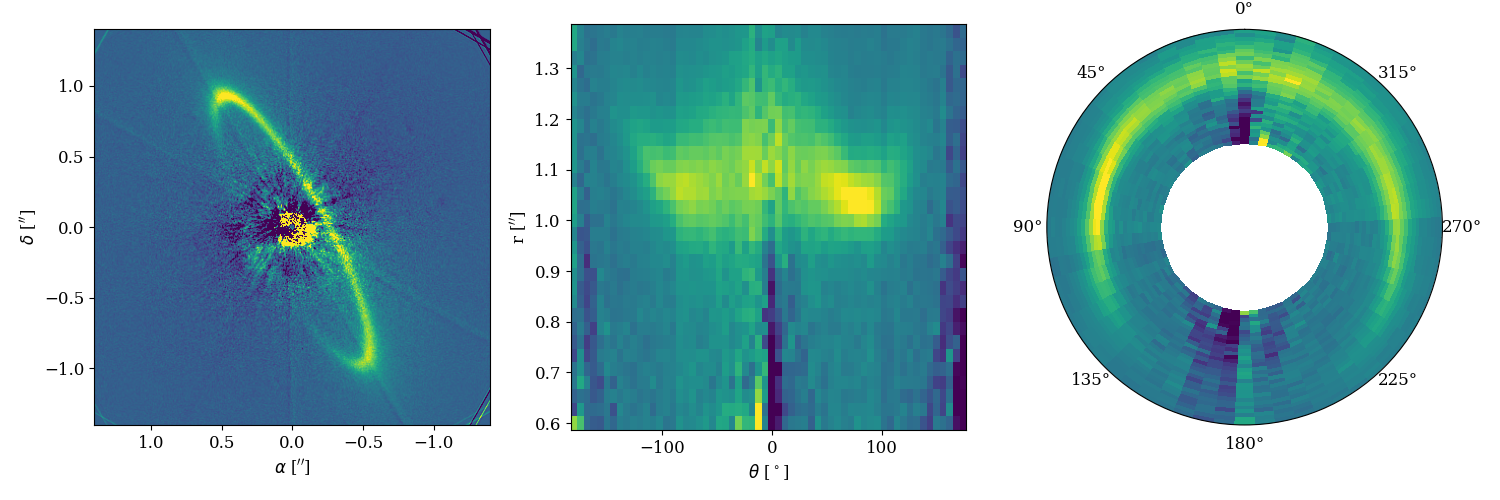
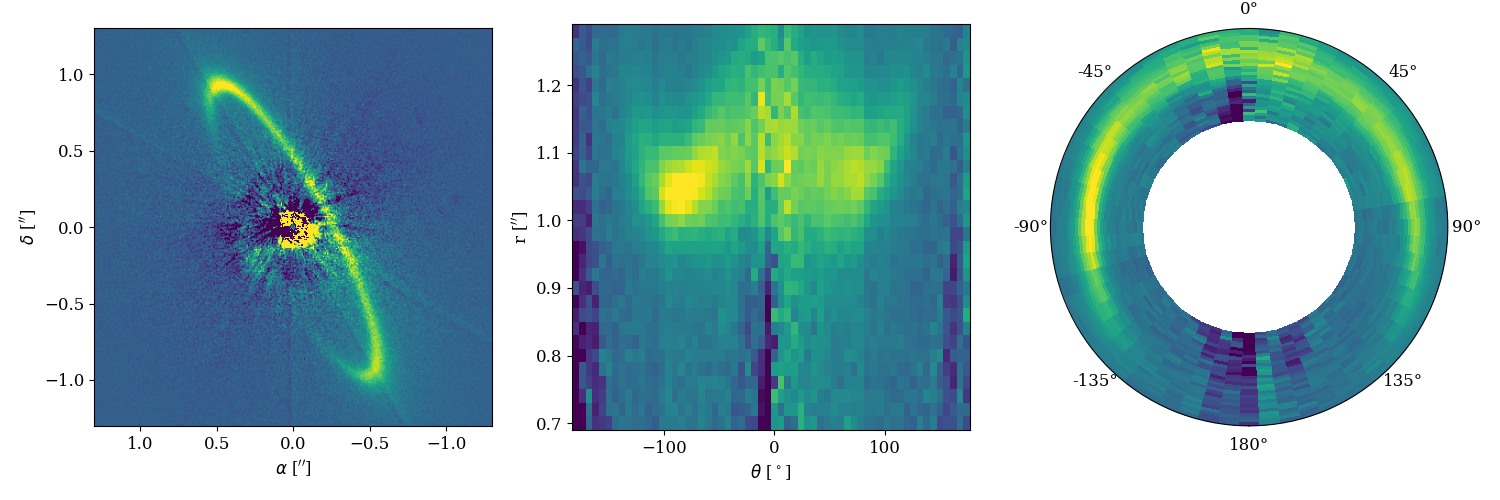
Better plotting

diff --git a/deproj.py b/deproj.py
@@ -52,6 +52,7 @@ class Deproj():
         self._ym = ((np.sin(self._pa) * self._Xin - np.cos(self._pa) * self._Yin)) / np.cos(self._incl)
         self._distance = np.sqrt(self._xm**2. + self._ym**2.)
         self._azimuth = (np.arctan2(self._ym,self._xm) + np.pi/2.) % (2. * np.pi) - np.pi
+        self._azimuth *= -1
         # self._azimuth = np.arctan2(self._ym, self._xm)
 
         rad = np.linspace(self._amin, self._amax, num = self._nr+1)
@@ -90,7 +91,10 @@ class Deproj():
             ax3 = fig.add_subplot(133, polar=True)
             ax3.grid(False)
             ax3.set_theta_zero_location('N')
+            ax3.set_theta_direction(-1)
             ax3.pcolormesh(theta[:-1], rad[:-1], density, vmin = dmin, vmax = dmax)
+            ax3.set_xticks(np.linspace(np.pi, -np.pi, 8, endpoint=False))
+            ax3.set_thetalim(-np.pi, np.pi)
             ax3.set_yticklabels([])
             plt.tight_layout()
             plt.show()
@@ -109,33 +113,12 @@ class Deproj():
         cb1 = plt.imshow(self._azimuth, origin = 'lower', extent = [self._xlim, -self._xlim, -self._xlim, self._xlim])
         # plt.contour(self._azimuth, origin = 'lower', extent = [self._xlim, -self._xlim, -self._xlim, self._xlim], levels = self._nt, colors = 'w')
         # cb1 = plt.imshow(self._distance, origin = 'lower', extent = [self._xlim, -self._xlim, -self._xlim, self._xlim])
-        for i in range(len(r)):
-            xn, yn, theta = self._get_xy(r[i], np.linspace(-np.pi, np.pi, num = self._nt, endpoint = True))
-            # ax1.plot(xn, yn, marker = 'o', mec = 'w', mfc = 'w', ms = 4, ls = ' ')
-            cb2 = ax1.scatter(xn, yn, c = theta, s = 6)
         # ax1.set_xlabel()
         # ax1.set_ylabel()
         divider = make_axes_locatable(ax1)
         cax = divider.append_axes("right", size="5%", pad=0.05)
         plt.colorbar(cb1, cax=cax)
         plt.show()
-
-    def _get_xy(self, a, nu):
-        """
-        All six orbital parameters
-        """
-        r = a * (1.0 - self._e**2.) / (1.0 + self._e * np.cos(nu))
-        x = r * np.cos(nu)
-        y = r * np.sin(nu)
-
-        # Now, we need to apply some projection and rotation
-        yn = x*(np.cos(self._pa)*np.cos(self._omega) - np.sin(self._omega)*np.cos(self._incl)*np.sin(self._pa)) -\
-             y*(np.sin(self._omega)*np.cos(self._pa) +np.cos(self._omega)*np.cos(self._incl)*np.sin(self._pa))
-        xn = x*(np.sin(self._pa)*np.cos(self._omega) + np.sin(self._omega)*np.cos(self._incl)*np.cos(self._pa)) +\
-             y*(np.cos(self._omega)*np.cos(self._incl)*np.cos(self._pa) - np.sin(self._omega)*np.sin(self._pa))
-        # The minus in front of xn is to flip the x axis and put the East on the left
-        # The minus in front of nu is to have positive angles on the front side of the disk
-        return -xn, yn, -nu
 
     def _read_fits(self, qfile):
         """
@@ -242,7 +225,8 @@ if __name__ == '__main__':
     # test.go(amin = 0.15, amax = 0.8, incl = 82.00, pa = -60.61)
 
     test = Deproj('data_example/HR4796_Qphi_400.fits', nr = 30, nt = 60, pixscale = 0.0072)
-    test.go(amin = 0.6, amax = 1.4, incl = 77.72, pa = -151.59)
+    test.go(amin = 0.7, amax = 1.3, incl = 77.72, pa = -151.59)
+    # test.debug(amin = 0.7, amax = 1.3, incl = 77.72, pa = -151.59)
 
     # test = Deproj('test/HD121617_Qphi_500.fits', nr = 40, nt = 60)
     # test.go(amin = 0.3, amax = 1.2, incl = 44.6, pa = -118.78)
